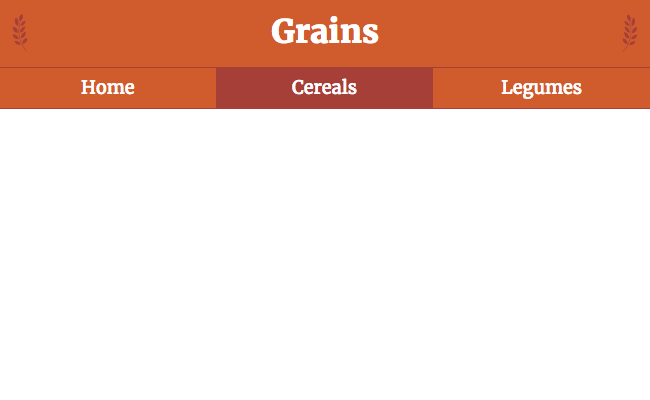
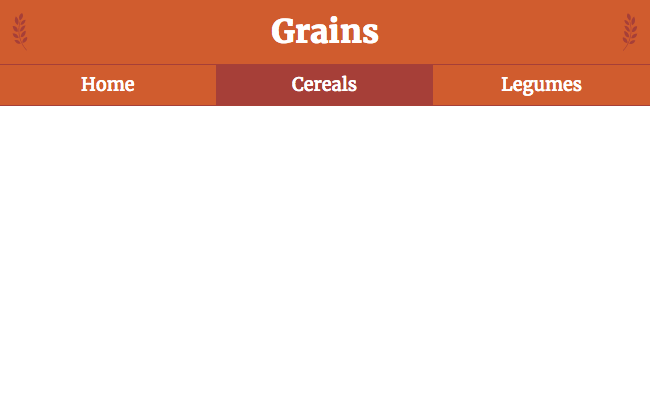
Switch to Flexbox instead of float

Changed region(s): [[0.0, 0.15, 1.0, 0.27]]

diff --git a/README.md b/README.md
@@ -1,5 +1,5 @@
 ---
-summary: "Use float to add navigation and two image icons to the header of a website."
+summary: "Use Flexbox to add navigation and two image icons to the header of a website."
 time: "1 hour"
 deliverables: "1 HTML file, 1 CSS file, images"
 ---
@@ -10,7 +10,7 @@ deliverables: "1 HTML file, 1 CSS file, images"
 
 - *Fork this repository.*
 - Write the HTML necessary for the header and navigation.
-- Use `float` to arrange the grain icons and the navigation items.
+- Use Flexbox to arrange the grain icons and the navigation items.
 - *Run it through Markbot and make sure it passes all the checks.*
 
 ---
@@ -21,8 +21,8 @@ deliverables: "1 HTML file, 1 CSS file, images"
 - *Text sizes:* `2rem`, `1.125rem`
 - *Line height:* `1.5`
 - *Colours:* `#d05c2e`, `#a63f38`, `#fff`
-- *Margins:* `0`, `0 0 .7rem`, `.3rem`
-- *Paddings:* `0`, `.5em 0 0`, `.4rem 0`
+- *Margins:* `0`
+- *Paddings:* `0`, `.5em 0`, `.4rem 0`
 - *Grain icon width:* `40px`
 
 ---
@@ -39,11 +39,3 @@ Visually match the images in the “screenshots” folder and create the interac
 ## Hand in
 
 Drop this folder into your Markbot application. Make sure to fix all the errors. And submit for grades using Markbot.
-
----
-
-## Optional challenges
-
-*These challenges are here if you’d like to try a little more work—they are for extra experience and learning. They are completely optional and not graded. Show them to me if you’d like—I’d love to see them.*
-
-1. Figure out how to use [Flexbox](https://learn-the-web.algonquindesign.ca/topics/advanced-layout-systems/) and complete the layout using `display: flex` instead of `float`
